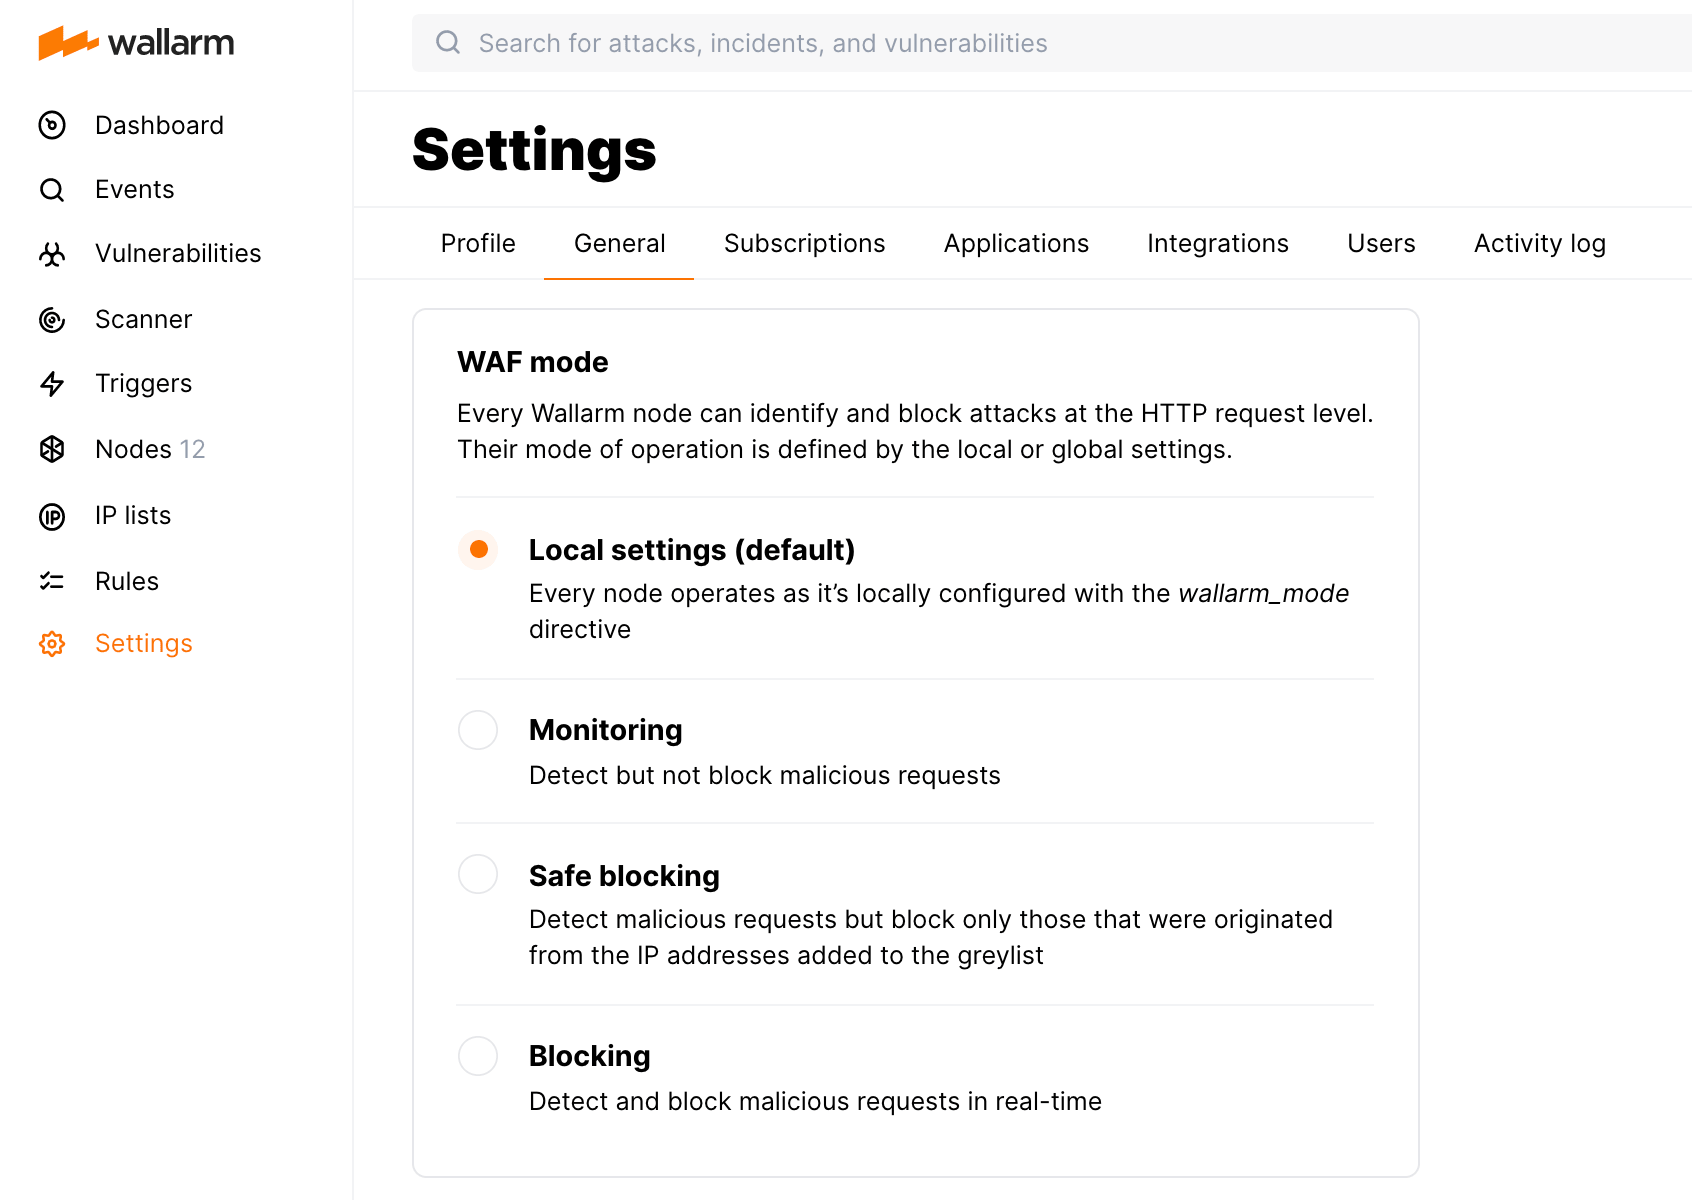
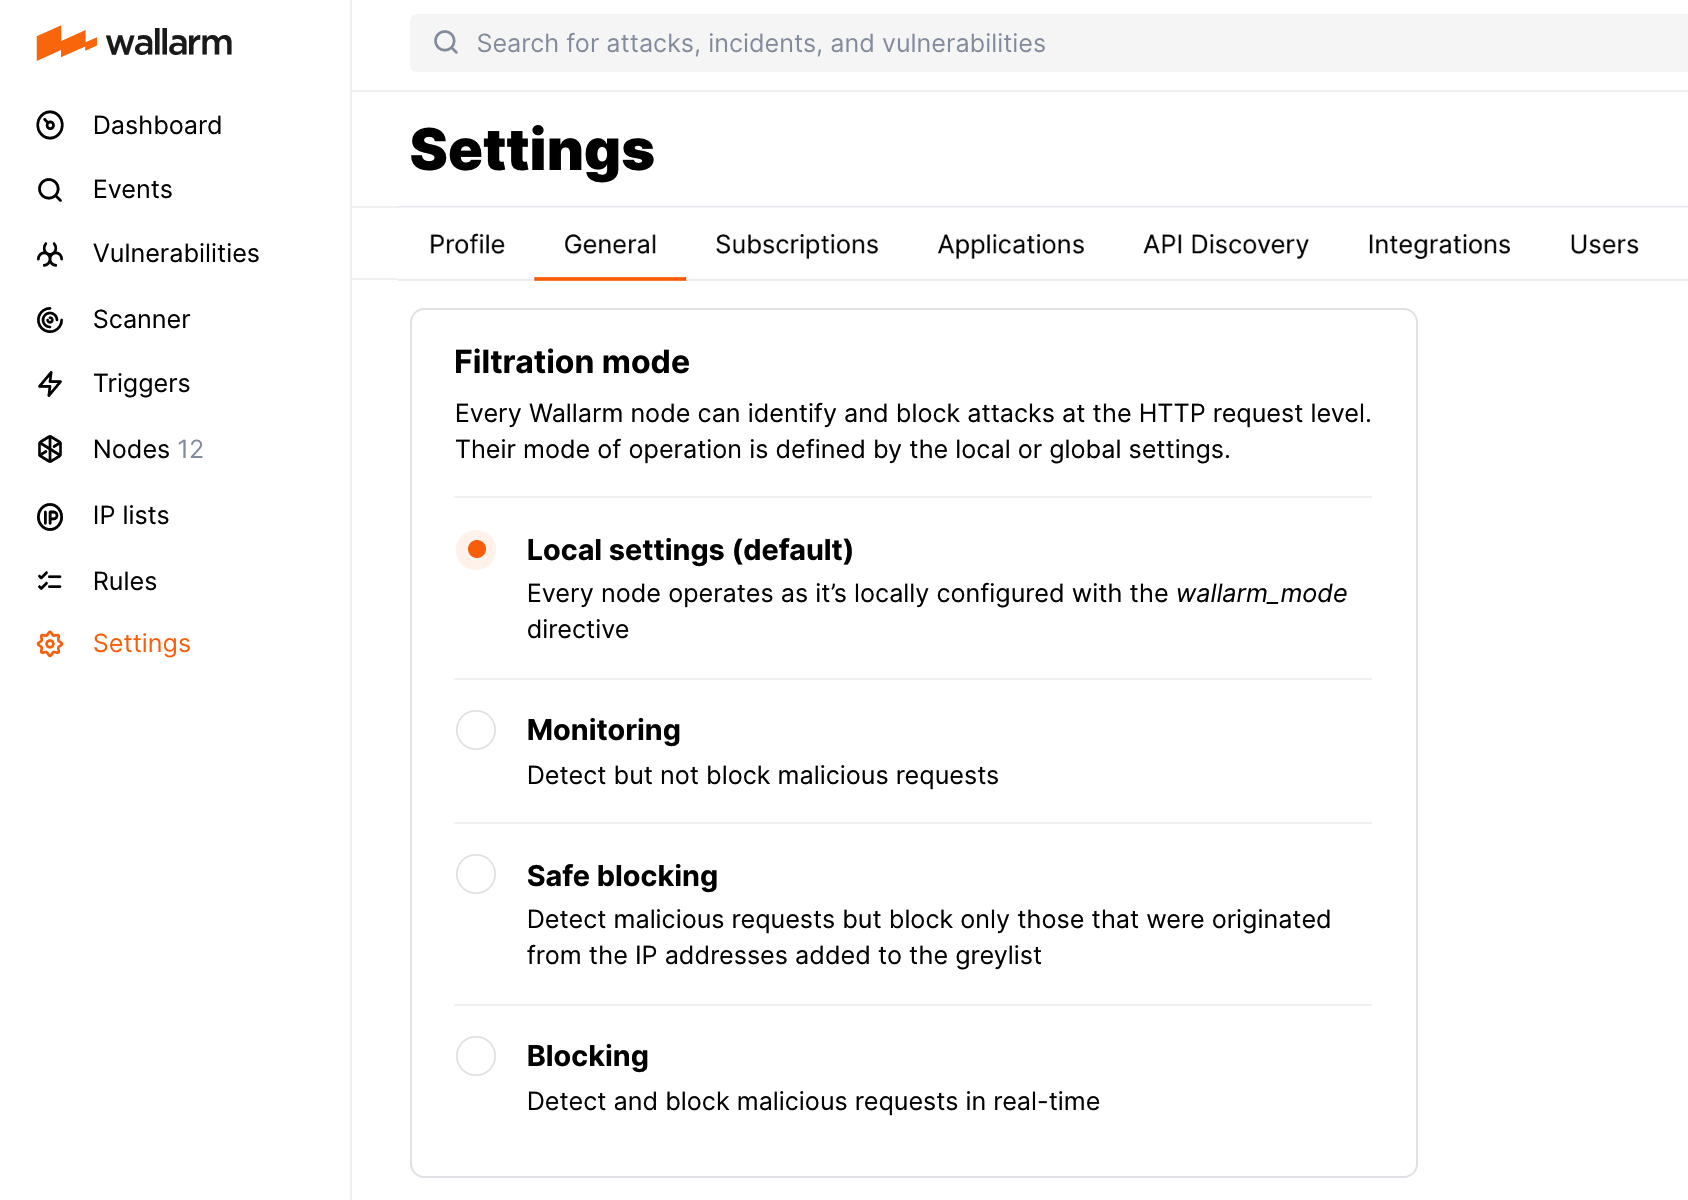
DOCS-1714 Logout management

diff --git a/docs/latest/user-guides/settings/general.md b/docs/latest/user-guides/settings/general.md
@@ -4,7 +4,14 @@
 
 # General Settings
 
-The *General* tab of the *Settings* section allows users to switch between different Wallarm operation modes:
+On the **General** tab of the **Settings** section you can:
+
+* Switch Wallarm filtration mode
+* Manage automatic logout timeouts
+
+## Filtration mode
+
+Every Wallarm node can identify and block attacks at the HTTP request level. This [mode of operation][link-config-parameters] is defined by the local or global settings.
 
 * **Local settings (default)**: this mode exploits settings from a filter node configuration file.
 * **Safe blocking**: all malicious requests originated from [graylisted IPs](../ip-lists/graylist.md) are blocked.
@@ -17,3 +24,9 @@ To learn more about available configuration options, proceed to the [link][link-
 
 !!! info "Qrator"
     Those Wallarm customers plugged in with Qrator traffic filters have the *Blocking with Qrator* setting. This setting enables automatic malicious requests blocking. The blocking is done with the Qrator IP denylists. Wallarm transfers to Qrator the data on those IP addresses from which the attacks originated.
+
+## Logout management
+
+Administrators can set up logout timeouts for company account. Settings will affect all account users. Idle and absolute timeouts can be set.
+
+![!General tab - Logout management](../../images/configuration-guides/configure-wallarm-mode/en/general-settings-logout-management.png)
